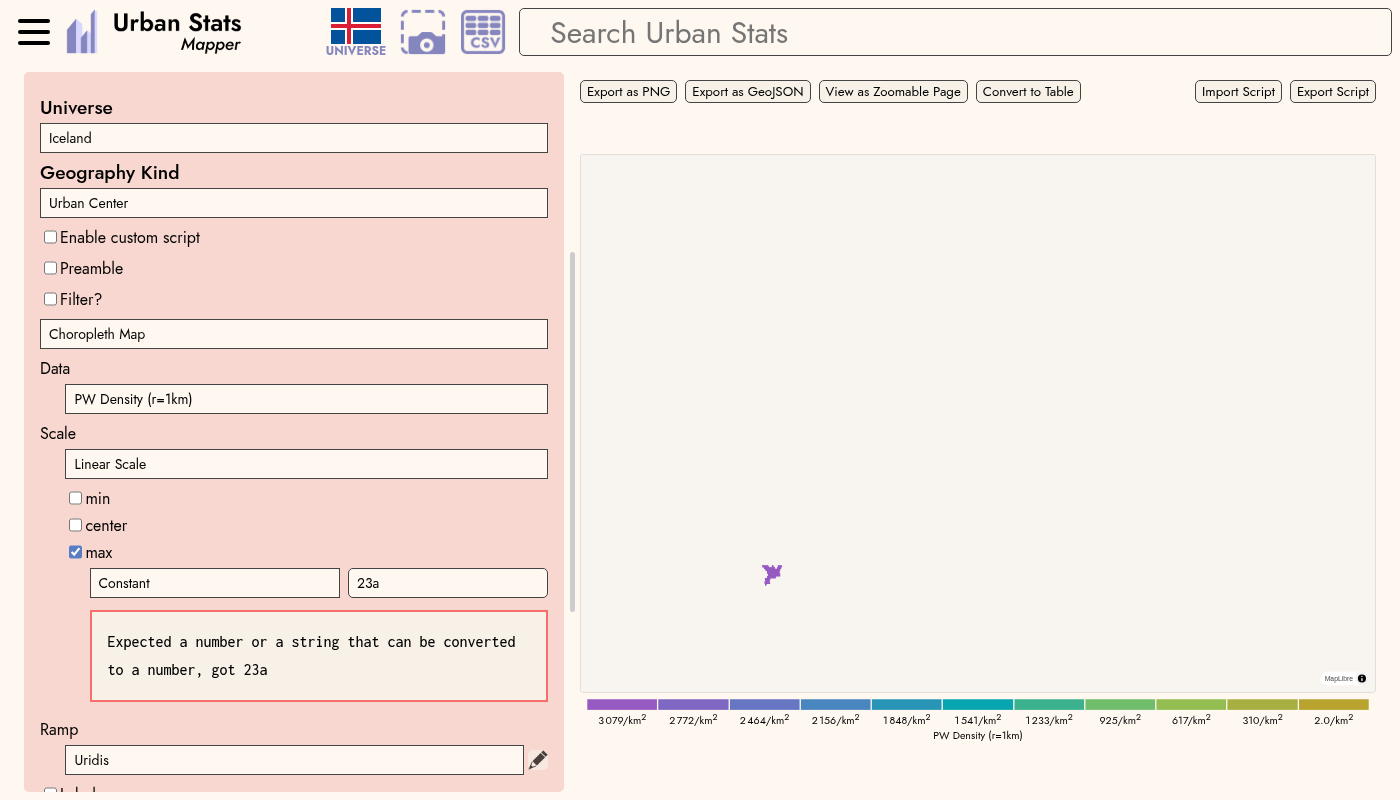
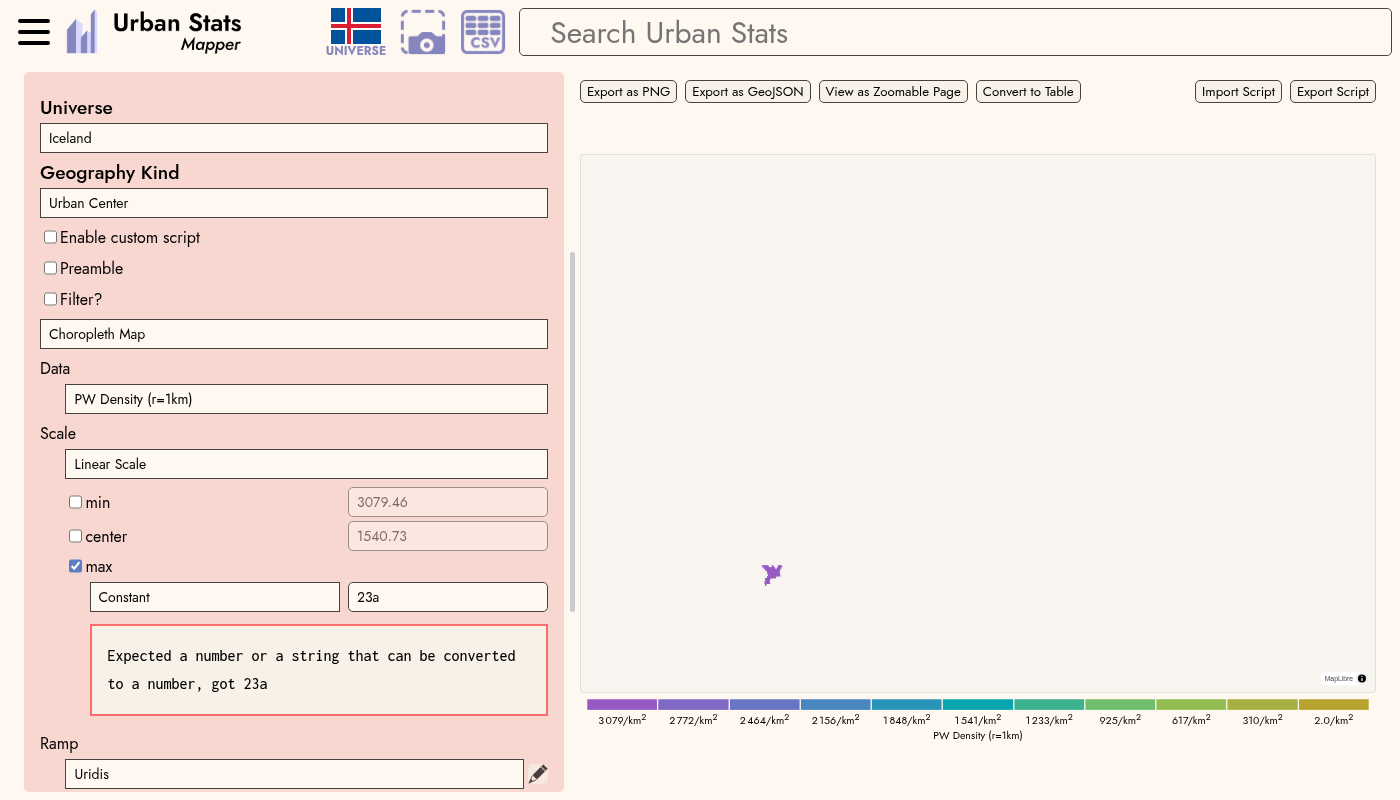
Keep the previous run's block values when execution fails (#2419)
The computed-bound boxes (#2410) show what the map settled on for an
argument the user hasn't set, and a failed execution stops partway: with
a bad `max`, `linearScale` never runs, so `min`/`center` vanish from the
panel until some later run succeeds.

That also made the panel depend on which mid-edit state won the 500ms
debounce in `useMapGenerator`, which is what `mapper-ux_x0`'s `syntax
error in subsubfield` screenshot has been flaking on. A parse error
returns the previous generator without executing at all, so the
screenshot catches whichever intermediate state last executed — and
whether the empty-editor state (a type error, the one that wipes the
values) got a 500ms gap to itself depends on how fast testcafe
dispatches keys.

Merging the two sets was the other option, but a merge can claim a
variable was assigned when the failed run never assigned it, so only
block values carry over. The test asserts the box still exists rather
than its number: enabling `max` legitimately moves the computed `min`
from 3079.46 to 3078.96, since the scale derives its bounds from each
other.

🤖 Generated with [Claude Code](https://claude.com/claude-code)

---------

Changed region(s): [[0.0307, 0.625, 0.3993, 1.0]]

diff --git a/react/test/mapper-ux_x0.test.ts b/react/test/mapper-ux_x0.test.ts
@@ -63,6 +63,16 @@ mapper(() => test)('scale shows the bounds it computed', { code: 'cMap(data=dens
     await t.expect(computedValue('max').exists).notOk()
 })
 
+mapper(() => test)('computed bounds outlive a failed run', { code: 'cMap(data=density_pw_1km, scale=linearScale(), ramp=rampUridis)' }, async (t) => {
+    await toggleCustomScript(t)
+    await t.expect(computedValue('min').exists).ok()
+    await checkBox(t, /^max/)
+    await replaceInput(t, 'Constant', 'Custom Expression')
+    await typeInEditor(t, 0, 'unknownFunction()', true)
+    await t.expect(getErrors()).eql(['Undefined variable: unknownFunction at 1:1-15'])
+    await t.expect(computedValue('min').exists).ok()
+})
+
 const errorInSubfield = (testFn: () => TestFn) => (category: string, errorCausingCode: string, error: string): void => {
     mapper(testFn)(`${category} error in subfield`, { code: 'cMap(data=density_pw_1km, scale=linearScale(), ramp=rampUridis)' }, async (t) => {
         await toggleCustomScript(t)

diff --git a/react/src/mapper/map-generator.tsx b/react/src/mapper/map-generator.tsx
@@ -111,7 +111,8 @@ async function makeMapGenerator({ mapSettings, cache, previousGenerator, typeEnv
         const prev = await previousGenerator()
         return {
             ...prev,
-            assignments: execResult.assignments,
+            // A failed run stops partway, so its block values are missing everything after the error
+            assignments: { variables: execResult.assignments.variables, blockValues: prev.assignments.blockValues },
             errors: execResult.error,
         }
     }
